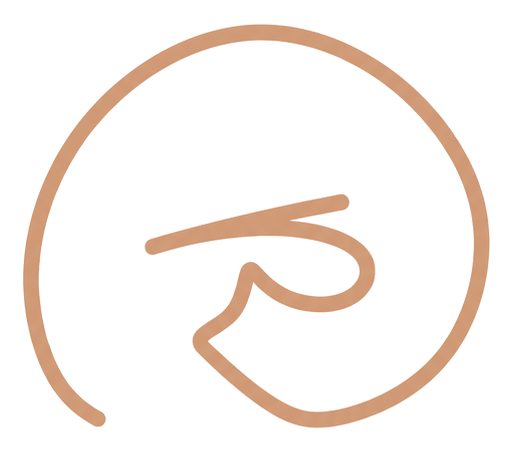
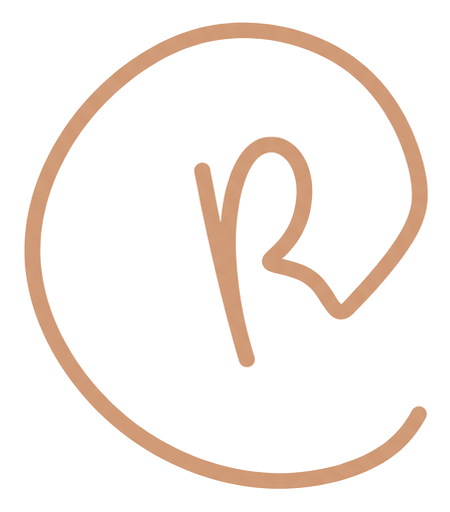
Corrigir rotação da assinatura do Rui nos rodapés
A imagem estava deitada (90° fora de posição). Reprocessada com o R
na vertical, e as dimensões width/height dos 4 footers ajustadas pra
nova proporção do arquivo.

Changed region(s): [[0.0311, 0.0311, 0.9644, 0.9644]]

diff --git a/app/components/portimao/PortimaoFooter.tsx b/app/components/portimao/PortimaoFooter.tsx
@@ -17,7 +17,7 @@ export function PortimaoFooter() {
           {t.nav.contacto}
         </Link>
       </div>
-      <Image src="/images/rui/assinatura.png" alt="" width={72} height={63} className="mx-auto mb-3 h-10 w-auto opacity-90" />
+      <Image src="/images/rui/assinatura.png" alt="" width={63} height={72} className="mx-auto mb-3 h-10 w-auto opacity-90" />
       <p>Representação exclusiva por Rui Da Cruz, RE/MAX Vantagem Platina.</p>
       <p className="mt-1">AMI 7772 · Prestígio Global – Sociedade de Mediação Imobiliária, S.A.</p>
       <p className="mt-1">+351 939 081 583</p>

diff --git a/app/components/site/SiteFooter.tsx b/app/components/site/SiteFooter.tsx
@@ -18,7 +18,7 @@ export function SiteFooter() {
           {nav("contacto")}
         </Link>
       </div>
-      <Image src="/images/rui/assinatura.png" alt="" width={72} height={63} className="mx-auto mb-3 h-10 w-auto opacity-90" />
+      <Image src="/images/rui/assinatura.png" alt="" width={63} height={72} className="mx-auto mb-3 h-10 w-auto opacity-90" />
       <p>{f("rights")}</p>
       <p className="mt-1">{f("ami")}</p>
       <p className="mt-1">{f("whatsapp")}</p>

diff --git a/app/components/verdelago/VerdelagoFooter.tsx b/app/components/verdelago/VerdelagoFooter.tsx
@@ -18,7 +18,7 @@ export function VerdelagoFooter() {
           {t.nav.contacto}
         </Link>
       </div>
-      <Image src="/images/rui/assinatura.png" alt="" width={72} height={63} className="mx-auto mb-3 h-10 w-auto opacity-90" />
+      <Image src="/images/rui/assinatura.png" alt="" width={63} height={72} className="mx-auto mb-3 h-10 w-auto opacity-90" />
       <p>{f.rights}</p>
       <p className="mt-1">{f.ami}</p>
       <p className="mt-1">{f.whatsapp}</p>

diff --git a/app/components/Footer.tsx b/app/components/Footer.tsx
@@ -18,7 +18,7 @@ export function Footer() {
           {t.nav.contacto}
         </Link>
       </div>
-      <Image src="/images/rui/assinatura.png" alt="" width={72} height={63} className="mx-auto mb-3 h-10 w-auto opacity-90" />
+      <Image src="/images/rui/assinatura.png" alt="" width={63} height={72} className="mx-auto mb-3 h-10 w-auto opacity-90" />
       <p>{f.rights}</p>
       <p className="mt-1">{f.ami}</p>
       <p className="mt-1">{f.whatsapp}</p>
